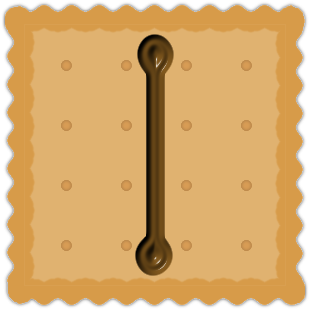
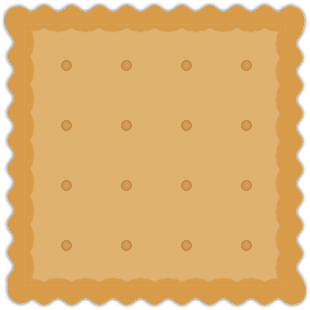
背景更改

Changed region(s): [[0.4355, 0.0871, 0.5806, 0.9]]

diff --git a/app/public/stylesheets/style.css b/app/public/stylesheets/style.css
@@ -26,7 +26,7 @@ h1{font-size: 2.6rem;text-align: center;margin:0;display: none;}
 .noBox span em i.bg7{background-image: url('/images/numberpic3/7.png');}
 .noBox span em i.bg8{background-image: url('/images/numberpic3/8.png');}
 .noBox span em i.bg9{background-image: url('/images/numberpic3/9.png');}
-.noBox span em.one{background-color:#fff;background-size: contain;background-repeat: no-repeat;background-image: url('/images/numberpic1/nobg.png');}
+.noBox span em.one{background-color:#fff;background-size: contain;background-repeat: no-repeat;background-image: url('/images/initbg.png');}
 .chooseNoBox{width: 27.6rem;overflow: hidden;margin: 0.5rem auto 0 auto;}
 .chooseNoBox em{background:#color:#fff;width: 4rem;height:4rem;margin:0.65rem;font-weight:blod;font-style:normal;float: left; text-align: center;line-height:4rem;border: 0.1rem solid #DEA015;border-radius:0.5rem;font-size: 3rem;background-size: contain;background-repeat:no-repeat;text-indent: -200rem;}
 .chooseNoBox em.smbg0{background-image: url('/images/smallnumberpic1/0.png');}
